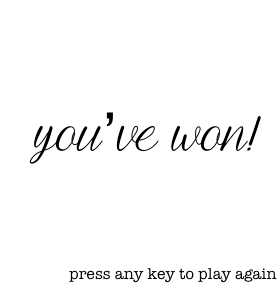
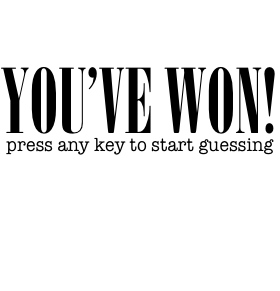
updated pics/wins/losses

Changed region(s): [[0.0, 0.2165, 1.0, 0.5567], [0.2286, 0.9278, 1.0, 0.9897]]

diff --git a/assets/javascript/game.js b/assets/javascript/game.js
@@ -1,8 +1,18 @@
 window.onload = function() {
 	
 	var userGuess;
-	var words = ["ACCELERATE", "ACCIDENT", "ASPHALT", "AUTOMOBILE", 
-										"AVENUE", "BICYCLE", "BOULEVARD", "BRAKES", "BUS"];
+	var words = ["ACCELERATE", "ACCIDENT", "ASPHALT", "AUTOMOBILE", "AVENUE", "BICYCLE", 
+								"BOULEVARD", "BRAKES", "BUS’", "CIRCLE", "CLUTCH", "CONSTRUCTION", 
+								"CARPOOL", "DETOUR", "DRIVE", "EMISSION", "EXHAUST", "EXIT", "EXPRESSWAY", 
+								"FAST", "FENDER", "FREEWAY", "FUEL", "GAS", "GEAR", "GPS", "GRIDLOCK", 
+								"HEADLIGHTS", "HYBRID", "INTERSECTION", "INTERSTATE", "IDLING", "LANE", 
+								"LICENSE", "LIGHTS", "MANUAL", "MAP", "MILE", "MERGE", "MOTOR", "MOTORCYCLE", 
+								"MPH", "OIL", "OVERPASS", "PARK", "PARKING", "PARKWAY", "PAVEMENT", "PEDAL", 
+								"PEDESTRIAN", "POLICE", "RAILROAD", "RAMP", "REGISTRATION", "REST", "REVERSE", 
+								"ROADWAY", "SAFETY", "SCENERY", "SEATBELT", "SHOULDER", "SIDEWALK", "SIGN", 
+								"SLOW", "SPEED", "STATE", "STOP", "STREET", "STEER", "TICKET", "TIRE", "TOLL", 
+								"TRAFFIC", "TRUCK", "TRANSPORTATION", "TUNNEL", "TURN", "UNDERPASS", "VEHICLE", 
+								"WARNING"];
 	var word = [];
 	var positions = [];
 	var guessedLetters = [];
@@ -11,21 +21,27 @@ window.onload = function() {
 	var losses;
 	var count = 0;
 
-	// inital wins
+	// inital
 	wins = 0;
 	losses = 0;
 	document.querySelector(".wins").innerHTML = wins;
 	document.querySelector(".losses").innerHTML = losses;
 
-	// Select the first word
+	// first word is ACCELERATE for testing purposes
 	var num = 0;
 	newWord(num);
+	
 
+	function selectNewWord() {
+		num = Math.floor((Math.random() * 80) + 1);
+		newWord(num);
+		console.log(words[num]);
+	}
 
 	
 
 	function newWord(num) {
-		// Set initial guesses
+		// set guesses
 		guesses = 6;
 		document.querySelector(".guesses").innerHTML = guesses;
 		// hangman picture
@@ -34,7 +50,7 @@ window.onload = function() {
 		positions = [];
 		guessedLetters = [];
 		document.querySelector(".letters-guessed").innerHTML = guessedLetters.join(" ");
-		// Set positions of intial word and display
+		// set positions of intial word and display
 		word = words[num].split("");
 		for (var i=0; i<word.length; i++) {
 			positions.push("_");
@@ -43,15 +59,15 @@ window.onload = function() {
 
 		document.onkeyup = function(event) {
 			// Reset non-letter and already-guessed
-			document.querySelector(".red").innerHTML = "";
-			// Get letter from player
+			document.querySelector(".info").innerHTML = "";
+			// get letter only
 			if (event.keyCode >= 65 && event.keyCode <= 90) {
 				userGuess = String.fromCharCode(event.keyCode).toUpperCase();
 				checkGuessed(userGuess);
 			} else {
-				document.querySelector(".red").innerHTML = "please press a letter";
+				document.querySelector(".info").innerHTML = "please press a letter";
 			}
-			// Check to see if player won or lost
+
 			checkWin();
 		}
 	}
@@ -63,13 +79,13 @@ window.onload = function() {
 		check: {
 			for (var i=0; i<guessedLetters.length; i++) {
 				if (guessedLetters[i] == userGuess) {
-					document.querySelector(".red").innerHTML = "<h2>guess another letter</h2>";
+					document.querySelector(".info").innerHTML = "<h2>guess another letter</h2>";
 					break check;
 				}
 			}
 			for (var i=0; i<positions.length; i++) {
 				if (positions[i] == userGuess) {
-					document.querySelector(".red").innerHTML = "<h2>guess another letter</h2>";
+					document.querySelector(".info").innerHTML = "<h2>guess another letter</h2>";
 					break check;
 				}
 			}
@@ -100,6 +116,7 @@ window.onload = function() {
 			// redisplay positions
 			document.querySelector(".positions").innerHTML = positions.join(" ");
 		}
+		checkWin();
 	}
 
 
@@ -112,63 +129,40 @@ window.onload = function() {
 					break winning;
 				}
 			}
-			// Update and display wins
+			// display wins
 			wins++;
+			answerReset();
 			document.querySelector(".wins").innerHTML = wins;
-			// Show answer
-			answer("c");
+			document.querySelector(".hangman").innerHTML = '<img src="assets/images/youwon.png">';
+			
 		}
-		// Check if guess reaches 0
+		// guess reaches 0
 		if (guesses == 0) {
-			answer("inc");
+			answerReset();
 			losses++;
 			document.querySelector(".losses").innerHTML = losses;
+			document.querySelector(".hangman").innerHTML = '<img src="assets/images/youlost.png">';
 		}
 	}
 
 
 
-	function answer(letter) {
+	function answer() {
 
-		// Show answer
-		document.querySelector(".response").innerHTML = letter + "orrect! it's " + words[num] + "!";
-		document.querySelector(".hangman").innerHTML = '<img src="assets/images/youwon.png">';
-
-		// Listen for key to reset
+		// key to reset
 		document.onkeyup = function(event) {
 			answerReset();
 		}
-		// Any key restarts game
-		document.querySelector(".left").addEventListener("click", function(){
-		    answerReset();
-		});
-		document.querySelector(".right").addEventListener("click", function(){
-		    answerReset();
-		});
-		// Listen for press to reset
+
 		document.querySelector(".guessLetter").addEventListener("click", function(){
 		    answerReset();
 		});
 	}
 
-		function selectNewWord() {
-		
-		var num = Math.floor((Math.random() * 9) + 1);
-		newWord(num);
-		// num++;
-		// // Keep selecting new words when available
-		// if (num < words.length) {
-		// 	// Select new word
-		// 	newWord(num);
-		// } else {
-		// 	// Reset num
-		// 	num = 0;
-		// 	newWord(num);
-		// }
-	}
+	
 
 	function answerReset() {
-		// Reset answer
+		// reset answer
 		document.querySelector(".response").innerHTML = "";
 
 		document.querySelector(".anykey").innerHTML = "";
@@ -179,24 +173,6 @@ window.onload = function() {
 
 
 }
-
-// var wordArray = [‘accelerate’, ‘accident’, ‘asphalt’, ‘automobile’, 
-// 										‘avenue’, ‘bicycle’, ‘boulevard’, ‘brakes’, ‘bus’, 
-// 										‘circle’, ‘clutch’, ‘construction’, ‘carpool’, ‘detour’, 
-// 										‘drive’, ‘emission’, ‘exhaust’, ‘exit’, ‘expressway’, ‘fast’, 
-// 										‘fender’, ‘freeway’, ‘fuel’, ‘gas’, ‘gear’, ‘gps’, ‘gridlock’, 
-// 										‘headlights’, ‘hybrid’, ‘intersection’, ‘ interstate’, 
-// 										‘idling’, ‘lane’, ‘license’, ‘lights’, ‘manual’, ‘map’, ‘mile’, 
-// 										‘merge’, ‘motor’, ‘motorcycle’, ‘mph’, ‘oil’, ‘overpass’, 
-// 										‘park’, ‘parking’, ‘parkway’, ‘pavement’, ‘pedal’, ‘pedestrian’, 
-// 										‘police’, ‘railroad’, ‘ramp’, ‘registration’, ‘rest’, ‘reverse’, 
-// 										‘roadway’, ‘safety’, ‘scenery’, ‘seatbelt’, ‘shoulder’, ‘sidewalk’, 
-// 										‘sign’, ‘slow’, ‘speed’, ‘state’, ‘stop’, ‘street’, ‘steer’, 
-// 										‘ticket’, ‘tire’, ‘toll’, ‘traffic’, ‘truck’, ‘transportation’, 
-// 										‘tunnel’, ‘turn’, ‘underpass’, ‘vehicle’, ‘warning’];
-
-
-
 
 
 

diff --git a/index.html b/index.html
@@ -33,13 +33,12 @@
 		<!-- hangman image goes here -->
 		
 		<div class="hangman"></div>
-		<h2 class="red">press enter to start</h2>
+		<h2 class="info">press enter to start</h2>
 
 		<!-- <div class="media-input"></div> -->
 
 		<div class="answer">
 			<h2 class="response"></h2>
-		<div class="character"></div>
 			<h2 class="anykey"></h2>
 		</div>
 
